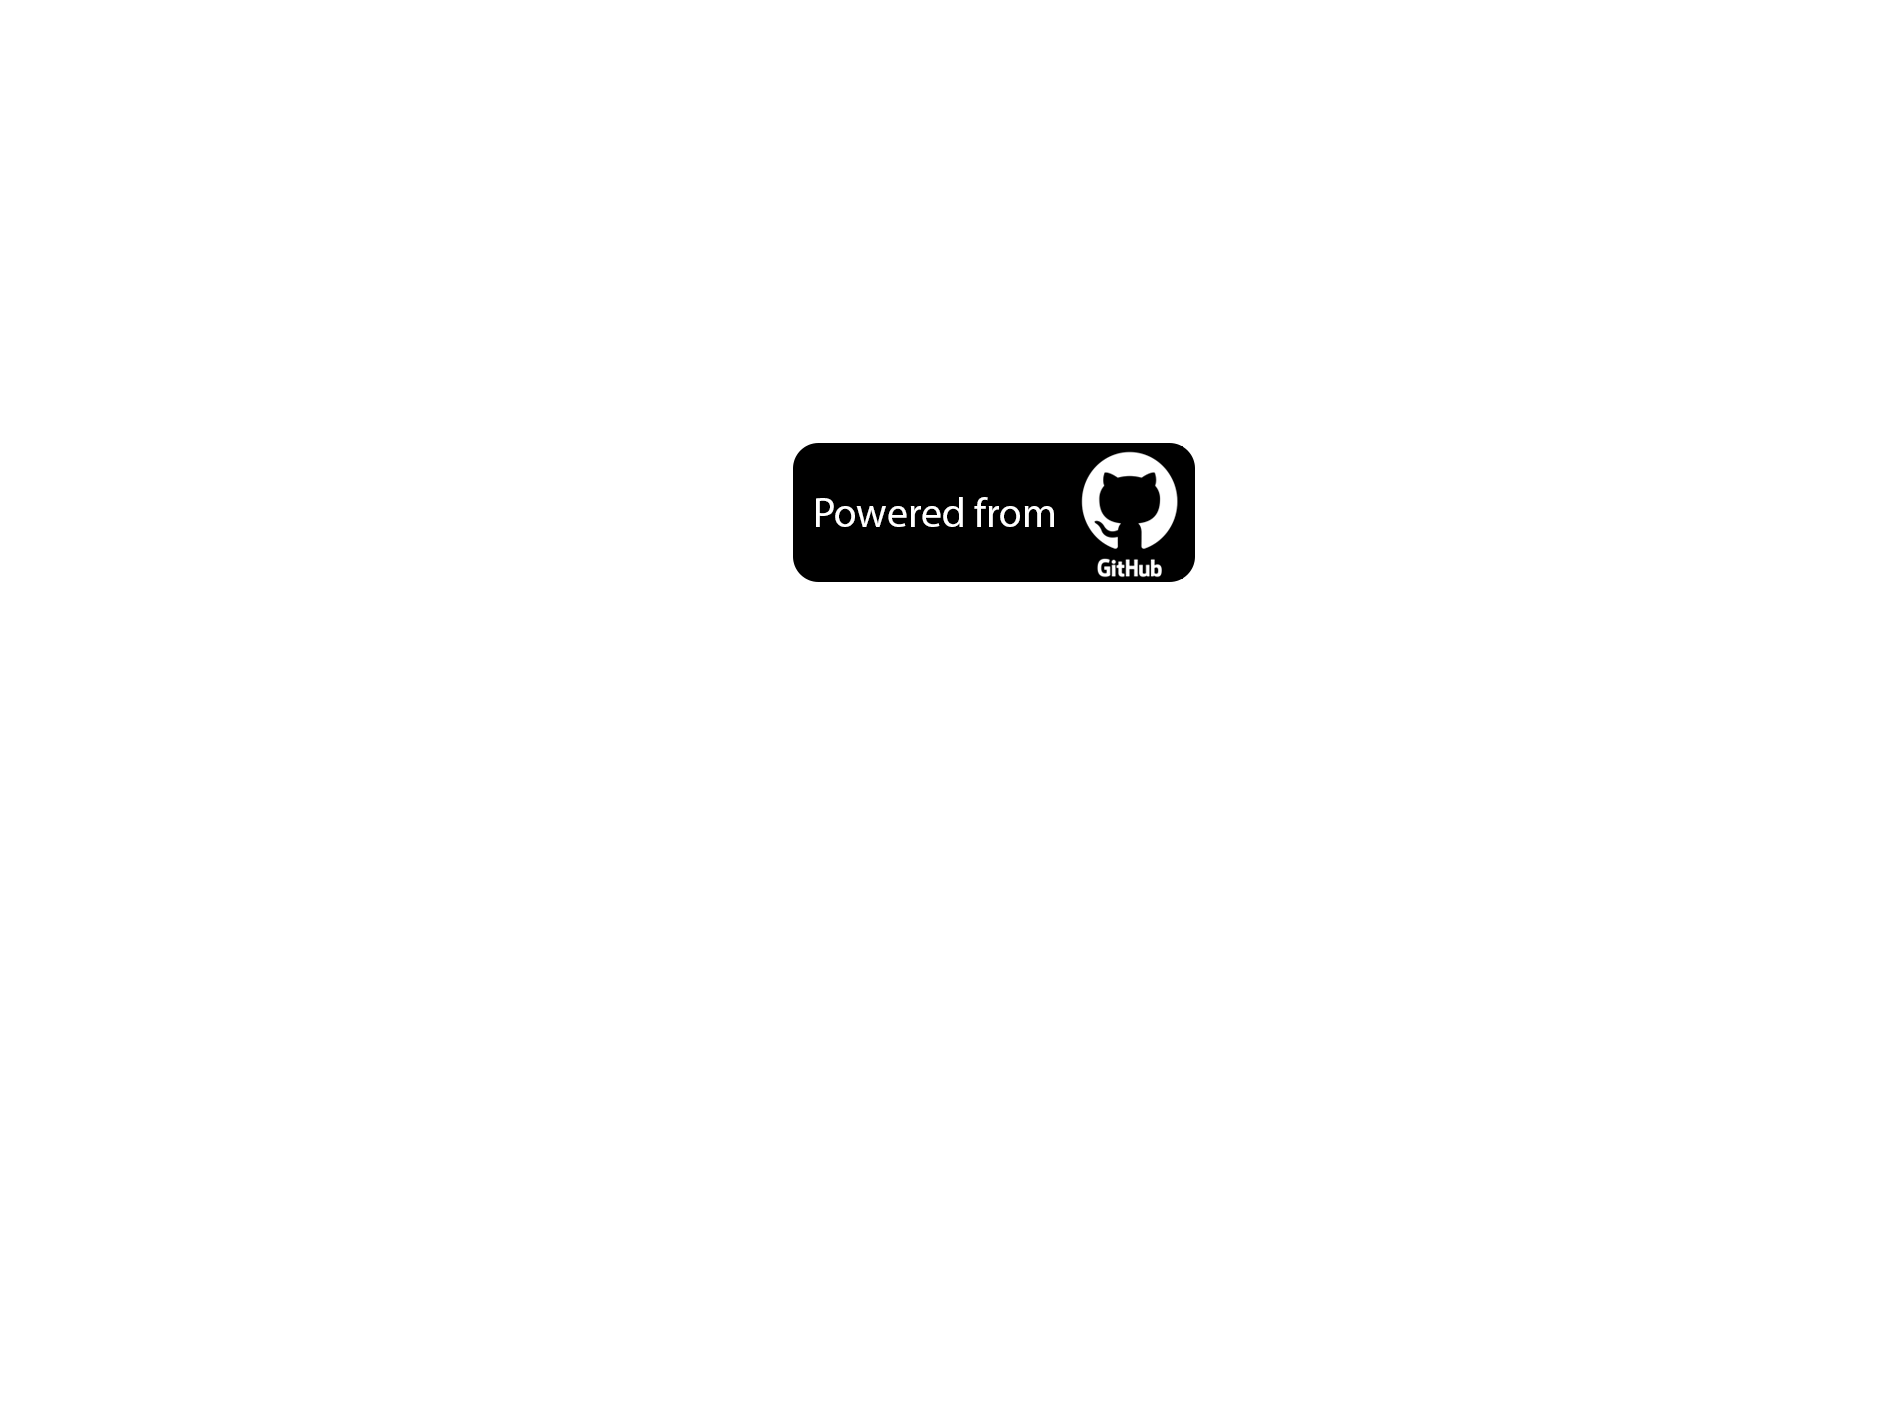
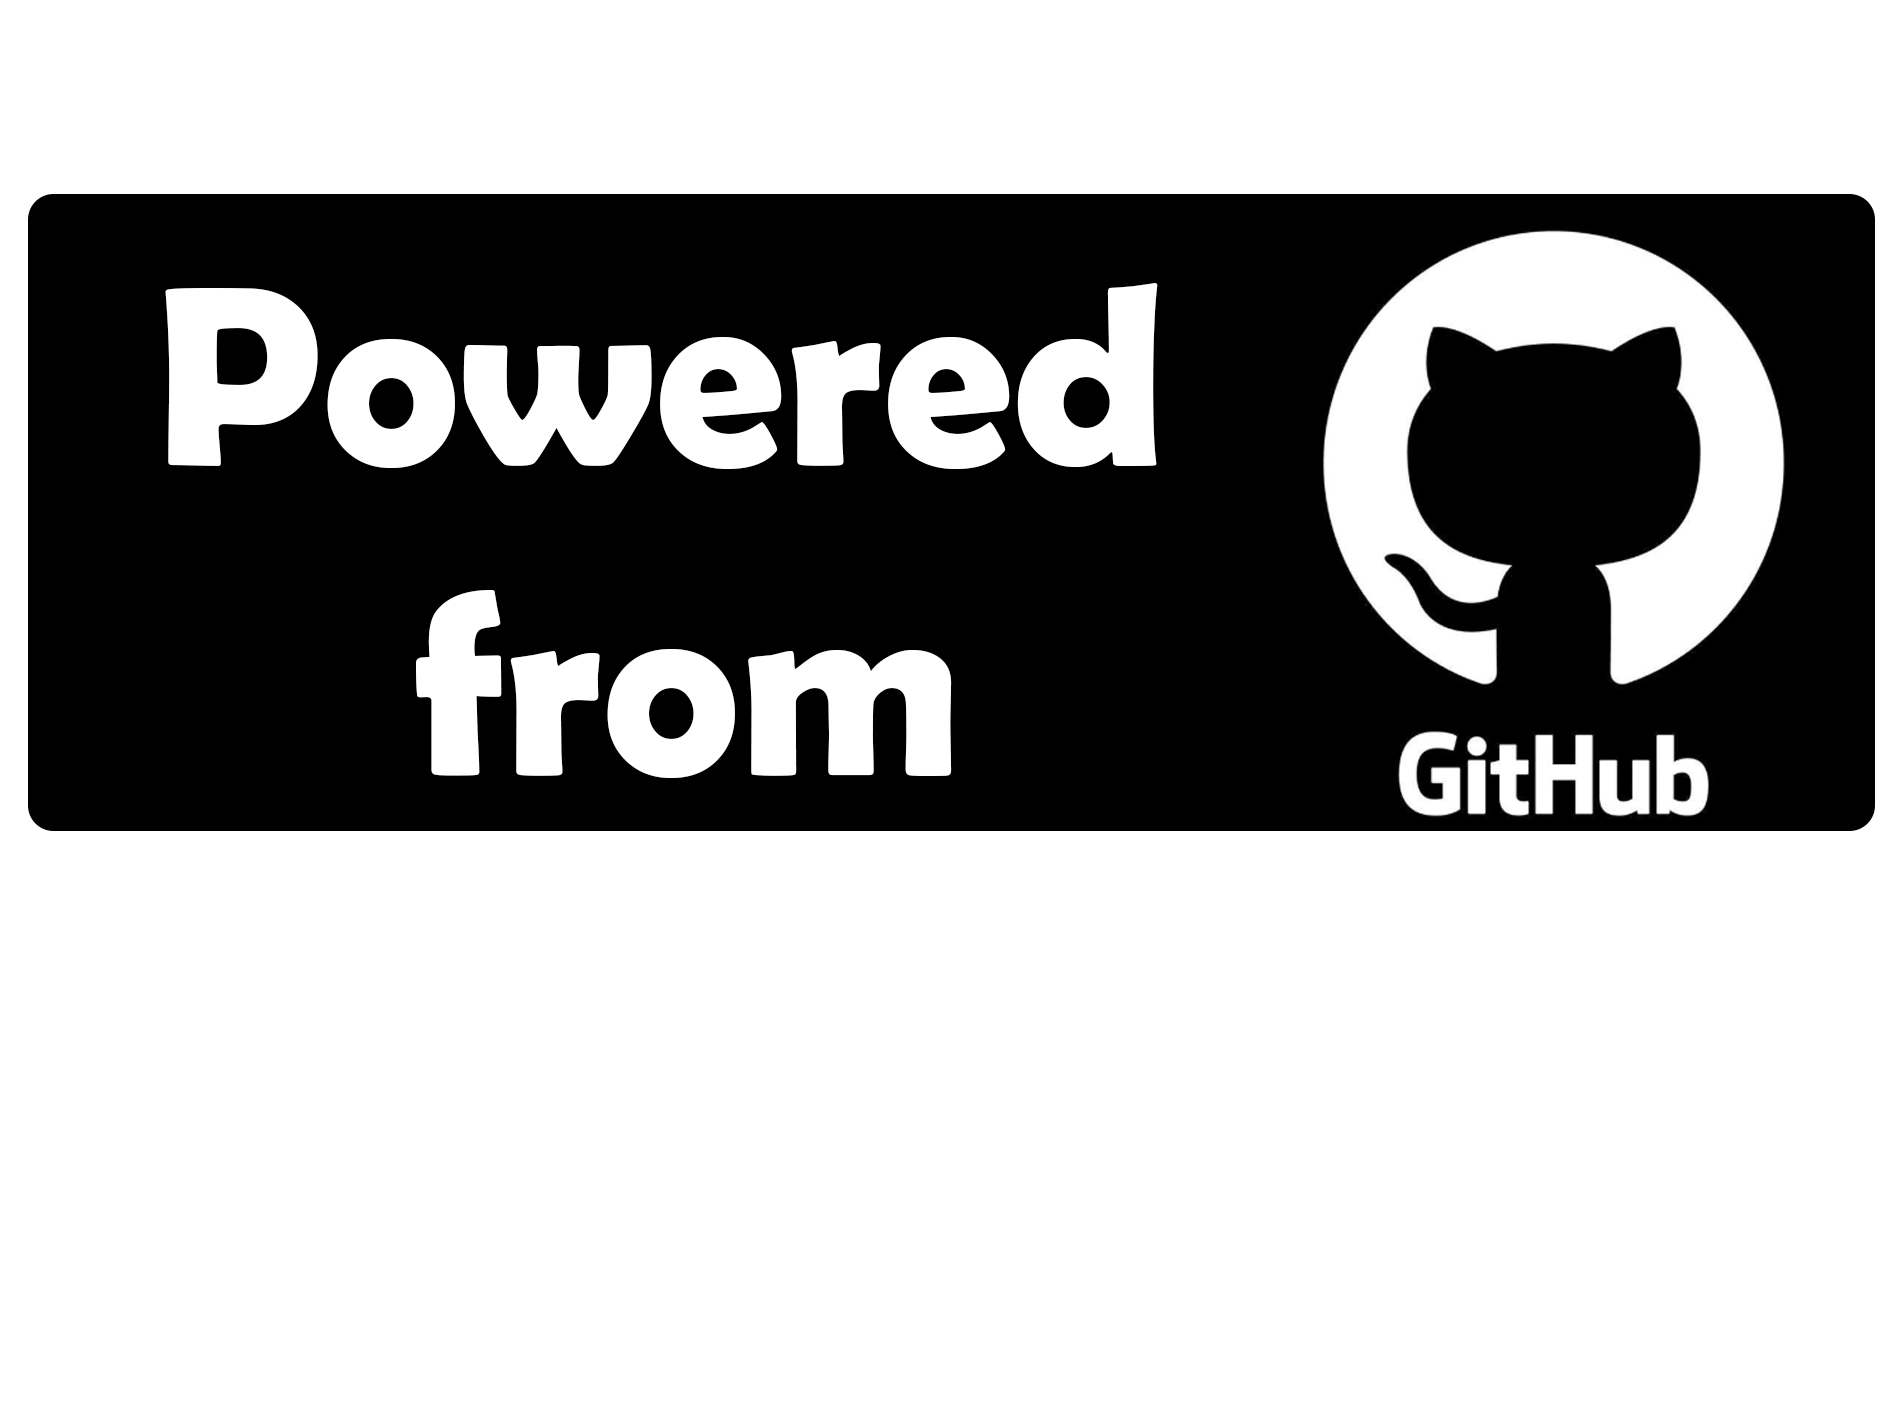
Updated Image

diff --git a/index.html b/index.html
@@ -199,7 +199,7 @@
 
 <footer style="text-align: center; padding: 20px; border-top: 1px solid gold; margin-top: 40px;">
     <div style="margin: 10px;">
-		<img src="Images/powered_by_Github.png" alt="Powered from GitHub" style="height: 300px; margin: 0 10px;">
+		<img src="Images/powered_by_Github.png" alt="Powered from GitHub" style="height: 100px; margin: 0 10px;">
         <img src="Images/DUNS_Registered.png" alt="DUNS Verified" style="height: 100px; margin: 0 10px;">       
     </div>
     <p style="color: gray;">Powered by GitHub | DUNS Verified</p>
